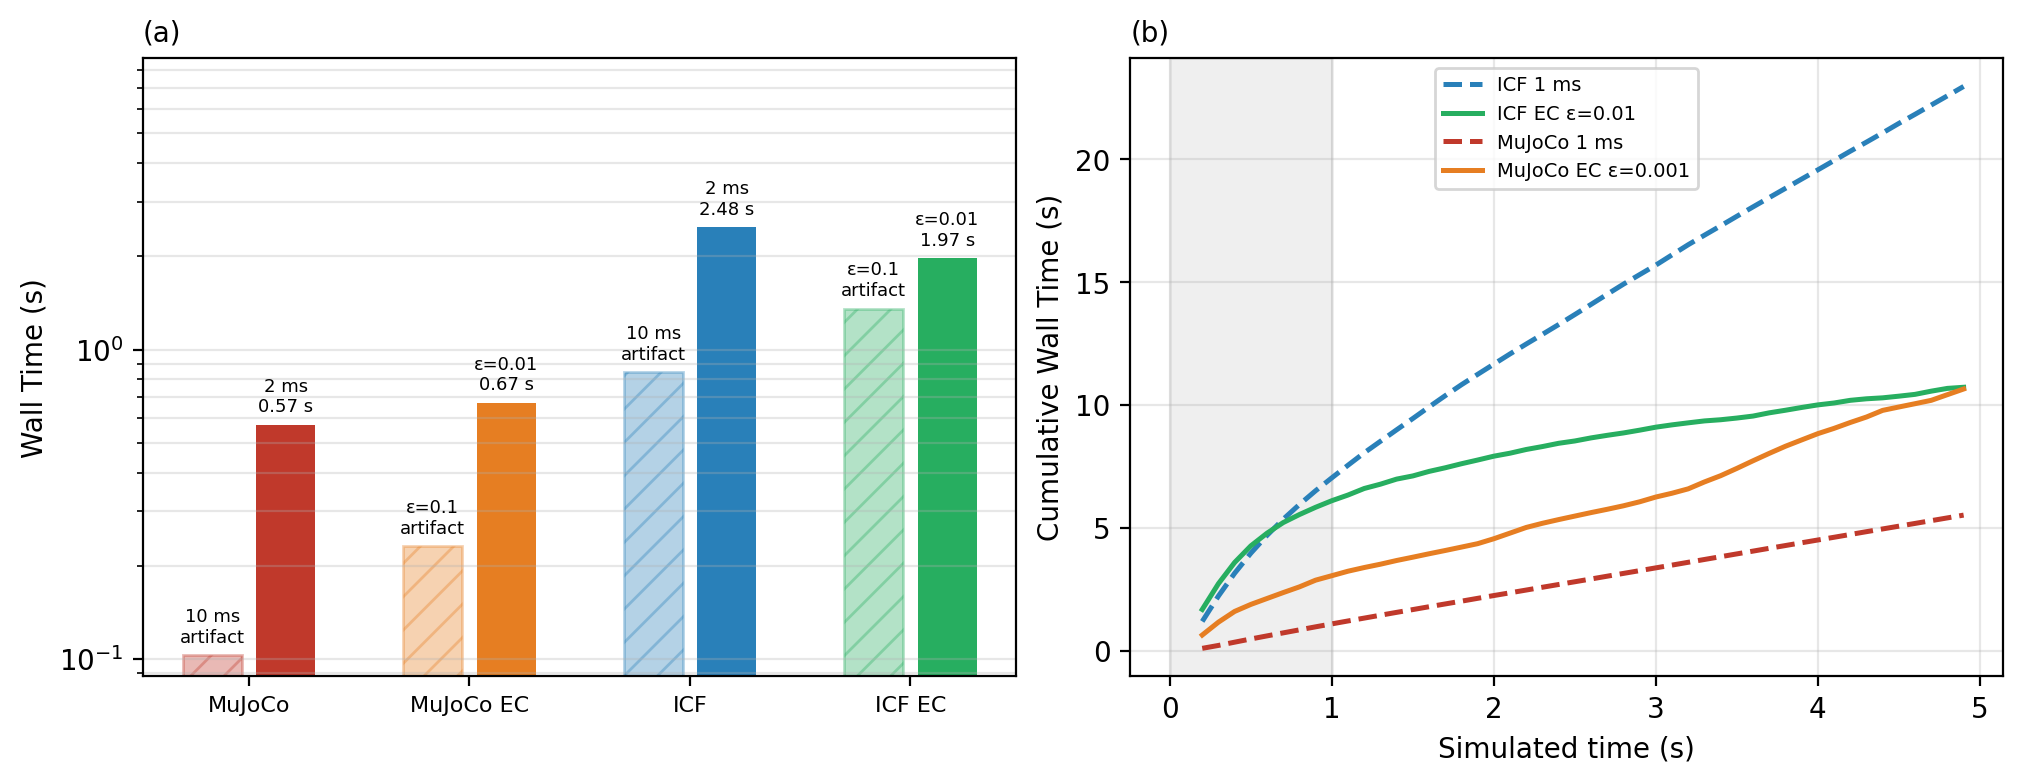
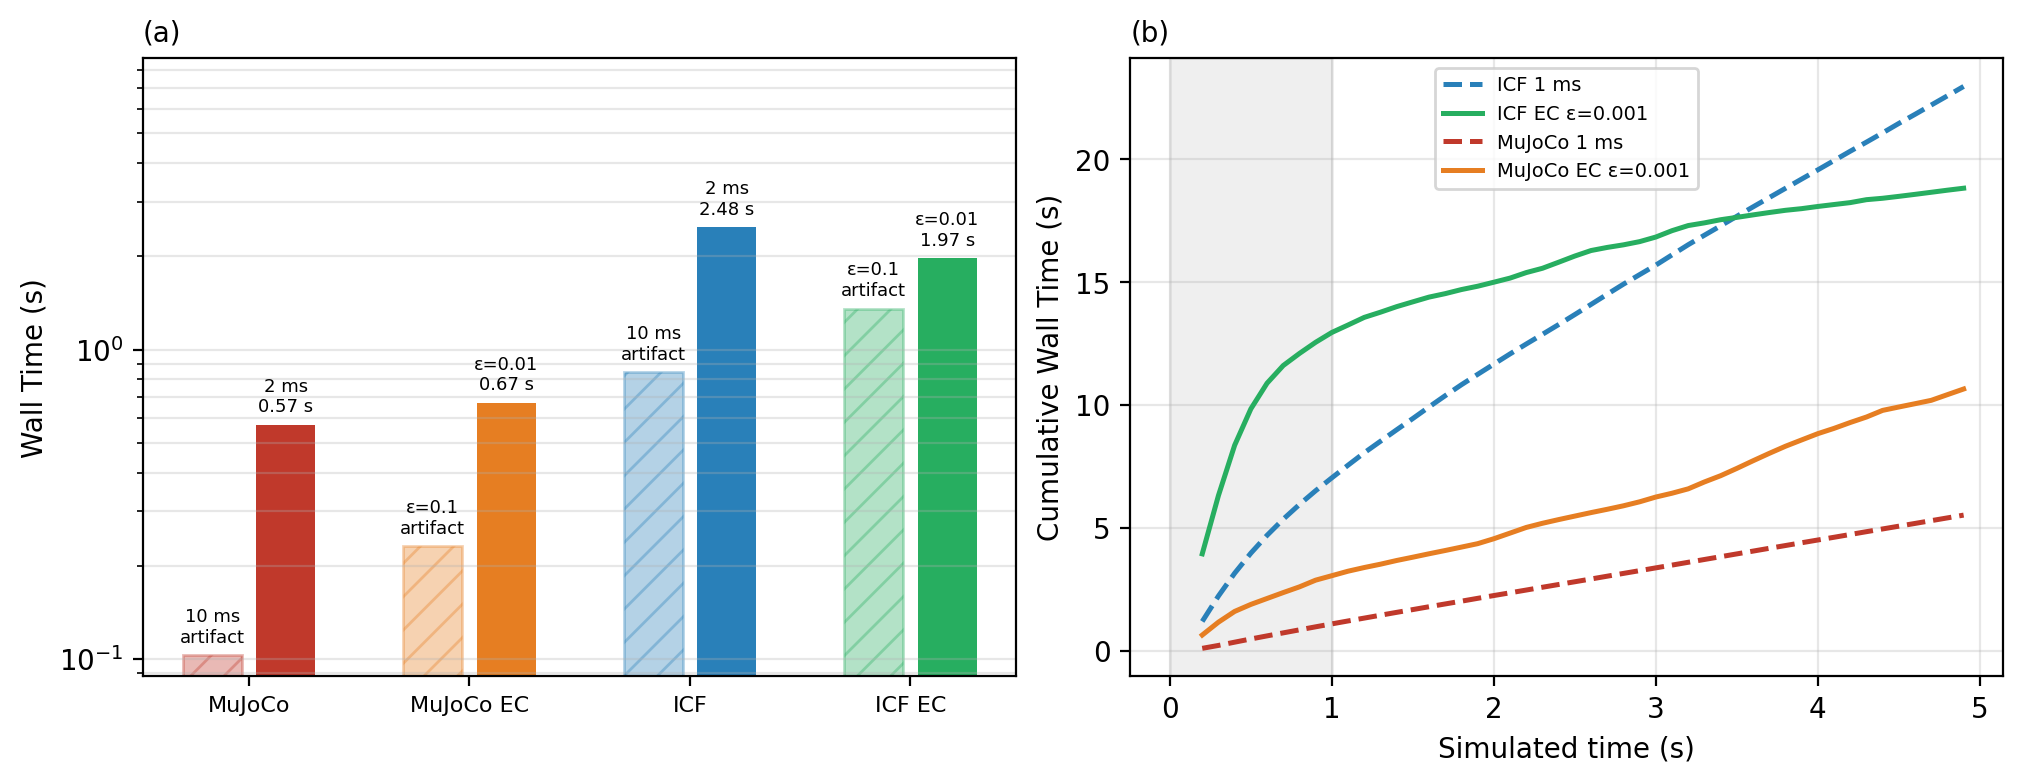
Match error-control tolerances in the story_cost trace panel
The cumulative-wall panel mixed ICF EC at eps=1e-2 with MuJoCo EC at
1e-3 (the trace bench's arm list never ran MuJoCo EC at 1e-2) - a
reviewer target. Both EC arms now plot at the matched 1e-3 that exists
in the CSV; the caption carries the matched numbers (ICF EC 0.82x its
fixed arm at 1e-3, 0.47x at the artifact-free-sufficient 1e-2). The
both-at-1e-2 version needs a ten-minute trace rerun once the GPU
frees.

diff --git a/part1/bench/part1_story.py b/part1/bench/part1_story.py
@@ -162,7 +162,10 @@ def story_cost() -> None:
     for r in rows:
         key = (r["arm"], r["accuracy"] if r["accuracy"] != "" else r["dt_s"])
         series.setdefault(key, []).append((r["t_s"], r["wall_ms"], r["iters"]))
-    want = [("icf", 1e-3), ("icf-adaptive", 1e-2), ("mujoco", 1e-3), ("mujoco-adaptive", 1e-3)]
+    # Matched tolerances (2026-08-31): both EC arms at eps=1e-3, both fixed
+    # arms at 1 ms — a mixed-eps panel is a reviewer target and the 1e-3
+    # ICF-EC rows exist in the CSV.
+    want = [("icf", 1e-3), ("icf-adaptive", 1e-3), ("mujoco", 1e-3), ("mujoco-adaptive", 1e-3)]
     for arm, knob in want:
         pts = sorted(series.get((arm, knob), []))
         if not pts:

diff --git a/part1/bench/results/PART1.md b/part1/bench/results/PART1.md
@@ -312,9 +312,12 @@ control only the impacts. (a) Hard clutter, 64 scenes: wall time per
 simulated second at the learner's coarse setting (hatched; an artifact by
 the criterion of Fig.~\ref{fig:story_step}b) and at the cheapest
 artifact-free setting of each arm (solid) -- the matched-accuracy cost.
-(b) Cumulative wall time along a 5\,s drop: fixed step takes the same
-number of substeps at every boundary; error control pays during the
-impacts (shaded) and coasts at coarse steps once the pile settles.}
+(b) Cumulative wall time along a 5\,s drop, both error-controlled arms
+at matched $\varepsilon_{acc} = 10^{-3}$ and both fixed arms at 1\,ms:
+fixed step takes the same number of substeps at every boundary; error
+control pays during the impacts (shaded) and coasts at coarse steps once
+the pile settles (ICF EC 0.82$\times$ its fixed arm over this horizon;
+at the artifact-free-sufficient $10^{-2}$ it reaches 0.47$\times$).}
 \label{fig:story_cost}
 \end{figure*}
 
